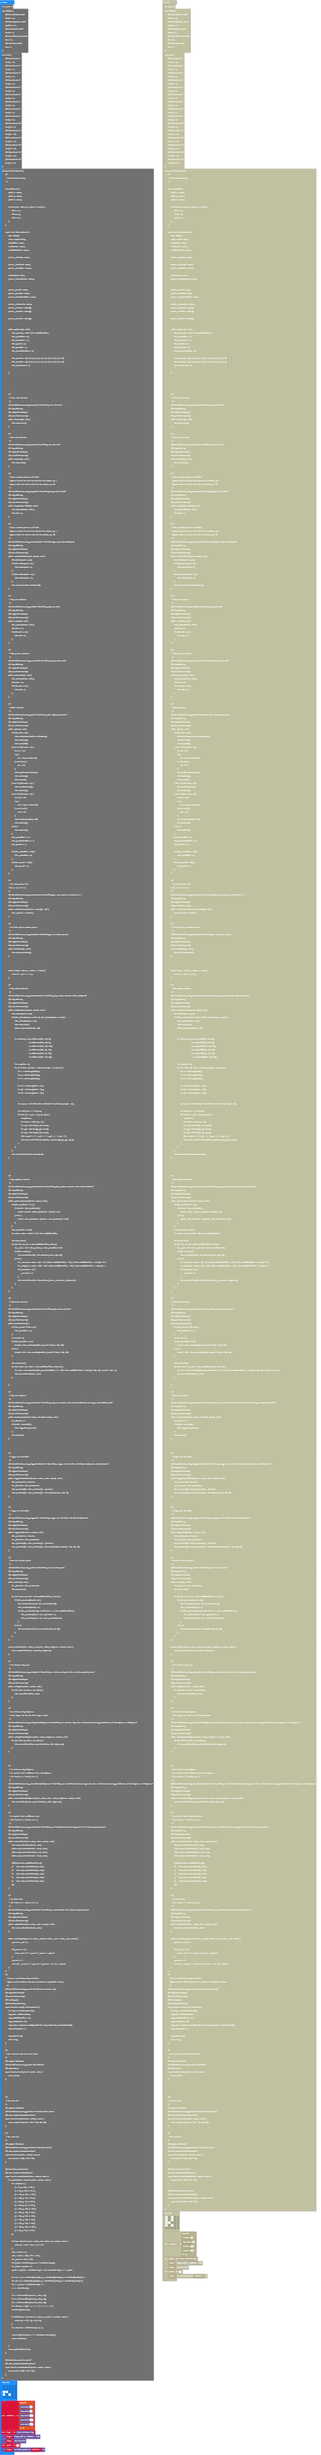
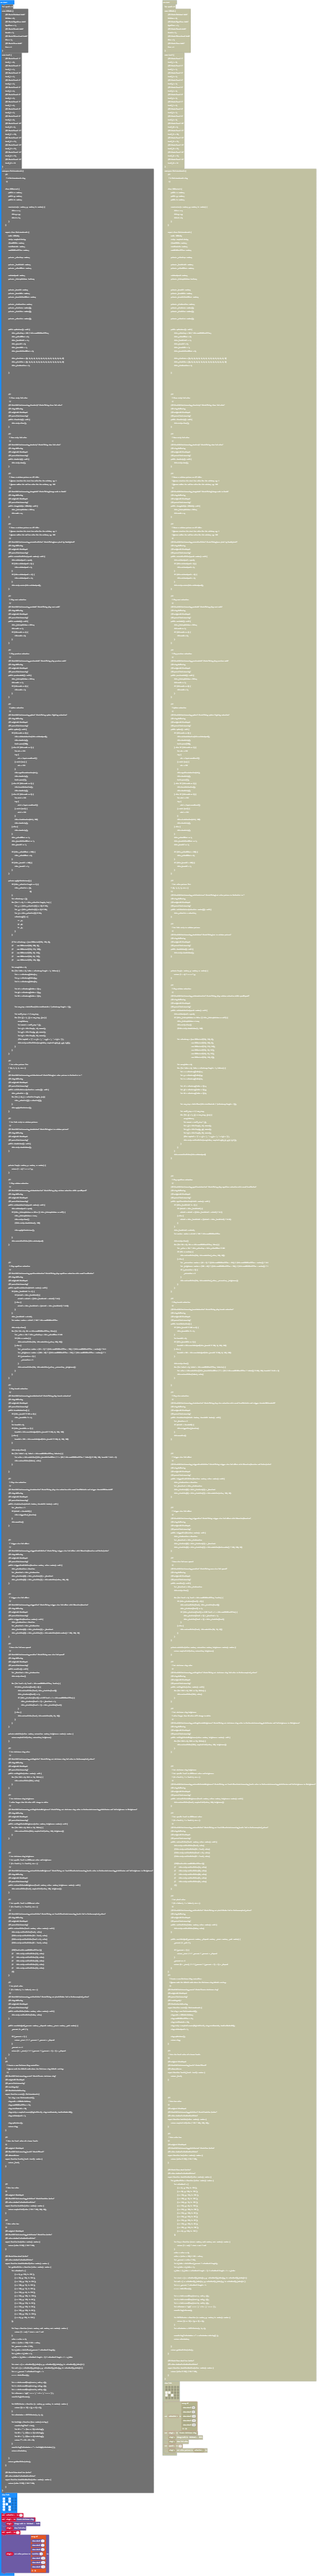
test5

Changed region(s): [[0.0, 0.0, 0.4664, 1.0], [0.4955, 0.0, 0.991, 0.9642]]

diff --git a/main.ts b/main.ts
@@ -254,9 +254,13 @@ namespace ChristmasWreath {
         }
 
         private applyColorPattern() {
-            if (this._colorList.length <= 2) {
-                this._colorList = [0,
-                                   0]
+            if (!this._colorList)  {
+                this._colorList = [0xFF8522, 0xBAA550, 0x30ba2c];
+            }
+            if (this._colorList.length == 0) {
+                this._colorList = [0xFF8522,
+                                    0xBAA550,
+                                    0x30ba2c]
             }
             let colorArray = [];
             for (let i = 0; i < this._colorList.length; i++) {
@@ -278,6 +282,9 @@ namespace ChristmasWreath {
             //     new RGBVector3(255, 169, 0)];
 
             let arrayIndex = 0;
+            if (colorArray.length <= 1) {
+                console.log('Error');                
+            }
             for (let index = 0; index < colorArray.length - 1; index++) {
                 let r = colorArray[index].r;
                 let g = colorArray[index].g;
@@ -287,18 +294,17 @@ namespace ChristmasWreath {
                 let gD = colorArray[index + 1].g;
                 let bD = colorArray[index + 1].b;
 
-
                 let num_step = Math.floor(this.totalNumLeds / (colorArray.length - 1));
-
                 let small_step = 1 / num_step;
-                for (let jj = 1; jj <= num_step; jj++) {
-                    arrayIndex++;
+
+                for (let jj = 1; jj <= num_step; jj++) {                    
                     let amount = small_step * jj;
                     let r_0 = this.lerp(r, rD, amount);
                     let g_0 = this.lerp(g, gD, amount);
                     let b_0 = this.lerp(b, bD, amount);
-                    //let tmpHtml = '(' + r_0 + ', ' + g_0 + ', ' + b_0 + ')';
+
                     this.strip.setPixelColor(arrayIndex, neopixel.rgb(r_0, g_0, b_0));
+                    arrayIndex++;
                 }
             }
         }
@@ -312,10 +318,12 @@ namespace ChristmasWreath {
         //% weight=90 blockGap=8
         //% parts="christmasring"
         public setColorPattern(colorList: number[]): void {
-            this._colorList = [];
-            for (let i =0; i < colorList.length; i++){
-                this._colorList[i] = colorList[i];
-            }            
+            
+            this._colorList = colorList;
+            console.log("colorList.length = " + this._colorList.length);
+            // for (let j =0; j < colorList.length; j++){
+            //     this._colorList[j] = colorList[j];
+            // }            
             this.applyColorPattern();
         }
 
@@ -613,107 +621,92 @@ namespace ChristmasWreath {
     }
 
 
-    
-
     /**
      * Gets hue color
     */
     //% weight=2 blockGap=8
     //% blockId="christmasring_pickColors" block="HueColor $color"
     //% color.shadow="colorWheelHsvPicker"
+    //% advanced=true
     export function hueColor(color: number): number {
         return neopixel.hsl(color / 255 * 360, 100, 50);
     }
 
-    /**
-     * Gets color hue
-    */
-    //% weight=2 blockGap=8
-    //% blockId="christmasring_pickColorHue" block="Hue $color"
-    //% color.shadow="colorWheelHsvPicker"
-    export function hue(color: number): number {
-        return (color % 255) / 255 * 360;
-    }
-
     //% block="show wheel $color"
     //% color.shadow="colorWheelPicker"
+    //% advanced=true
     export function showColorWheel(color: number): number {
-        let getWheelColor = function (color: number): number {
-            let colorWheel = [
-                { r: 0, g: 255, b: 255 },
-                { r: 60, g: 195, b: 255 },
-                { r: 120, g: 135, b: 255 },
-                { r: 180, g: 75, b: 255 },
-                { r: 240, g: 15, b: 255 },
-                { r: 255, g: 45, b: 210 },
-                { r: 255, g: 105, b: 150 },
-                { r: 255, g: 165, b: 90 },
-                { r: 255, g: 225, b: 30 },
-                { r: 225, g: 255, b: 30 },
-                { r: 165, g: 255, b: 90 },
-                { r: 105, g: 255, b: 150 },
-                { r: 45, g: 255, b: 210 }
-            ];
+    
+        let colorWheel = [
+            { r: 0, g: 255, b: 255 },
+            { r: 60, g: 195, b: 255 },
+            { r: 120, g: 135, b: 255 },
+            { r: 180, g: 75, b: 255 },
+            { r: 240, g: 15, b: 255 },
+            { r: 255, g: 45, b: 210 },
+            { r: 255, g: 105, b: 150 },
+            { r: 255, g: 165, b: 90 },
+            { r: 255, g: 225, b: 30 },
+            { r: 225, g: 255, b: 30 },
+            { r: 165, g: 255, b: 90 },
+            { r: 105, g: 255, b: 150 },
+            { r: 45, g: 255, b: 210 }
+        ];
 
-            let lerp = function (start: number, end: number, amt: number): number {
-                return (1 - amt) * start + amt * end
-            }
-            color = color >> 0;
-            color = (color > 255) ? 255 : color;
-            let _percent = color / 256;
-            let b_index = Math.floor(_percent * colorWheel.length);
-            let e_index = b_index + 1;
-            e_index = (e_index > colorWheel.length - 1) ? colorWheel.length - 1 : e_index
-
-            let start = { r: colorWheel[b_index].r, g: colorWheel[b_index].g, b: colorWheel[b_index].b }
-            let end = { r: colorWheel[e_index].r, g: colorWheel[e_index].g, b: colorWheel[e_index].b }
-            let u = _percent * colorWheel.length - 1.
-            u = u - Math.floor(u);
-
-            let r = Math.round(lerp(start.r, end.r, u));
-            let g = Math.round(lerp(start.g, end.g, u));
-            let b = Math.round(lerp(start.b, end.b, u));
-            let colorname = 'rgb(' + r + ',' + g + ',' + b + ')';
-            console.log(colorname);
-
-            let fullColorHex = function (r: number, g: number, b: number): number {                
-                return ((r << 16) + (g << 8) + b);
-            }
-            let colorNumber = fullColorHex(r, g, b);
-            
-            let hexToRgb = function (hex: number):string {
-                console.log("hex" + hex);
-                let RR = '' + (hex >> 16).toString();
-                let GG = ''; //(hex >> 8).toString();
-                let BB = ''; //(hex >> 0).toString();
-                return "" + RR + GG + BB;
-            }
-            console.log("colorNumber = " + hexToRgb(colorNumber) );
-            return colorNumber;
-
+        let lerp = function (start: number, end: number, amt: number): number {
+            return (1 - amt) * start + amt * end
         }
-        return getWheelColor(color);        
+        color = color >> 0;
+        color = (color > 255) ? 255 : color;
+        let _percent = color / 256;
+        let b_index = Math.floor(_percent * colorWheel.length);
+        let e_index = b_index + 1;
+        e_index = (e_index > colorWheel.length - 1) ? colorWheel.length - 1 : e_index
+
+        let start = { r: colorWheel[b_index].r, g: colorWheel[b_index].g, b: colorWheel[b_index].b }
+        let end = { r: colorWheel[e_index].r, g: colorWheel[e_index].g, b: colorWheel[e_index].b }
+        let u = _percent * colorWheel.length - 1.
+        u = u - Math.floor(u);
+
+        let r = Math.round(lerp(start.r, end.r, u));
+        let g = Math.round(lerp(start.g, end.g, u));
+        let b = Math.round(lerp(start.b, end.b, u));
+        let colorname = 'rgb(' + r + ',' + g + ',' + b + ')';
+        console.log(colorname);
+
+        let fullColorHex = function (r: number, g: number, b: number): number {                
+            return ((r << 16) + (g << 8) + b);
+        }
+        let colorInDecimal = fullColorHex(r,g,b);
+        
+        // let hexToRgb = function (hex: number):string {
+        //     console.log("hex" + hex);
+        //     let RR = '' + (hex >> 16).toString();
+        //     let GG = ''; //(hex >> 8).toString();
+        //     let BB = ''; //(hex >> 0).toString();
+        //     return "" + RR + GG + BB;
+        // }
+        //console.log("rgb = " + r + ", " +g  + "," + b);   
+        return colorInDecimal;
     }
 
-    //% block="show wheel hsv $color"
-    //% color.shadow="colorWheelHsvPicker"
-    export function showColorWheelHsv(color: number): number {
-        return (color % 255) / 255 * 360;
-    }
 }
 basic.showLeds(`
-    # # . . .
+    # . . . .
+    # . . . .
     . . . . .
-    # # . . .
-    # . # . .
+    . . . . .
     . . . . .
     `)
-let colorList:number[] = [
-    ChristmasWreath.showColorWheel(47),
-    ChristmasWreath.showColorWheel(50),
-    ChristmasWreath.showColorWheel(18),
-    ChristmasWreath.showColorWheel(128),
-    ChristmasWreath.showColorWheel(210)
+let colorList = [
+    ChristmasWreath.showColorWheel(0),
+    ChristmasWreath.showColorWheel(9),
+    ChristmasWreath.showColorWheel(43),
+    ChristmasWreath.hueColor(0),
+    ChristmasWreath.showColorWheel(180),
+    ChristmasWreath.showColorWheel(169),
+    ChristmasWreath.showColorWheel(230),
+    ChristmasWreath.showColorWheel(0),
 ]
 ring2 = ChristmasWreath.create()
 ring2.changeMode(LEDMode.Rainbow)
